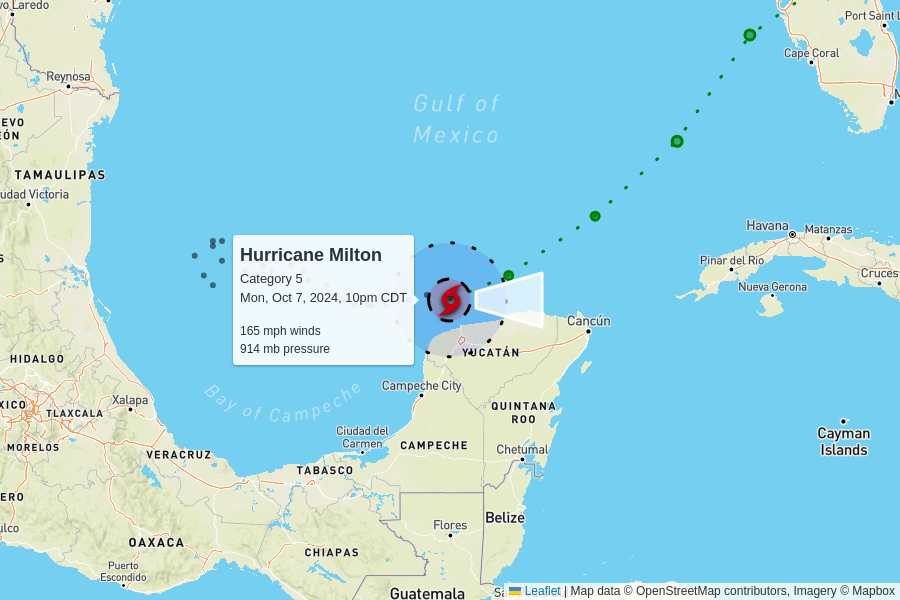
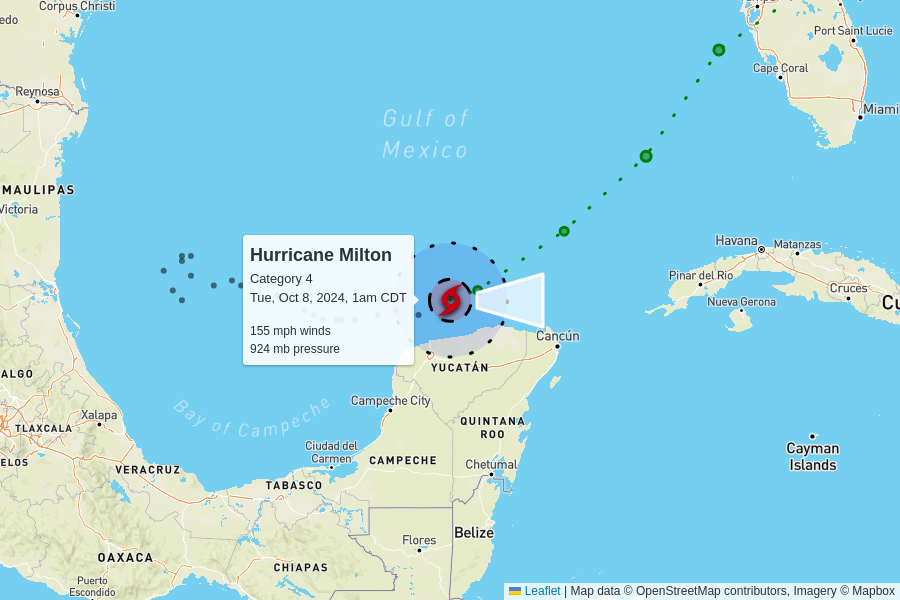
automatic update

diff --git a/docs/index.html b/docs/index.html
@@ -101,6 +101,50 @@
 
     <table>
       <tr>
+        <td colspan="6" class="storm category-4" >
+          <h2>
+            Hurricane Milton - Category 4
+            <p class="updated">last updated <span data-time>2024-10-08T06:00:00.000Z</span></p>
+          </h2>
+        </td>
+      </tr>
+      
+      <tr>
+        <th class="spacer"></th>
+        <th>wind speed</th>
+        <th>central pressure</th>
+        <th>movement</th>
+        <th>data (CSV)</th>
+        <th>National Hurricane Center</th>
+      </tr>
+      <tr>
+        <td class="spacer"></td>
+        <td>155 mph<br>-10 mph since last update</td>
+        <td>924 mb<br>+10 mb since last update</td>
+        <td>
+          9 mph to the east
+          <br/>
+          <span style="display: inline-block; font-size: 1.5em; transform: rotate(90deg);">↑</span>
+        </td>
+        <td><a href="https://raw.githubusercontent.com/mgwalker/atlantic-hurricanes/main/data/csv/AL142024.csv">AL142024.csv</a></td>
+        <td><a href="https://www.nhc.noaa.gov/archive/2024/MILTON.shtml?">NHC advisories</a></td>
+      </tr>
+      <tr id="storm_AL142024" >
+        <td class="spacer">
+        <td colspan="5">
+          <figure>
+            <img src="AL142024.png">
+            <figcaption>
+              Map data &copy; <a href="https://www.openstreetmap.org/copyright">OpenStreetMap</a> contributors,
+              Imagery &copy; <a href="https://www.mapbox.com/">Mapbox</a> |
+              <a href="https://www.mapbox.com/map-feedback/" target="_blank">Improve this map</a>
+            </figcaption>
+          </figure>
+        </td>
+      </tr>
+      
+
+      <tr>
         <td colspan="6" class="storm category-1" >
           <h2>
             Hurricane Leslie - Category 1
@@ -134,50 +178,6 @@
         <td colspan="5">
           <figure>
             <img src="AL132024.png">
-            <figcaption>
-              Map data &copy; <a href="https://www.openstreetmap.org/copyright">OpenStreetMap</a> contributors,
-              Imagery &copy; <a href="https://www.mapbox.com/">Mapbox</a> |
-              <a href="https://www.mapbox.com/map-feedback/" target="_blank">Improve this map</a>
-            </figcaption>
-          </figure>
-        </td>
-      </tr>
-      
-
-      <tr>
-        <td colspan="6" class="storm category-5" >
-          <h2>
-            Hurricane Milton - Category 5
-            <p class="updated">last updated <span data-time>2024-10-08T03:00:00.000Z</span></p>
-          </h2>
-        </td>
-      </tr>
-      
-      <tr>
-        <th class="spacer"></th>
-        <th>wind speed</th>
-        <th>central pressure</th>
-        <th>movement</th>
-        <th>data (CSV)</th>
-        <th>National Hurricane Center</th>
-      </tr>
-      <tr>
-        <td class="spacer"></td>
-        <td>165 mph<br>-15 mph since last update</td>
-        <td>914 mb<br>+17 mb since last update</td>
-        <td>
-          9 mph to the east
-          <br/>
-          <span style="display: inline-block; font-size: 1.5em; transform: rotate(90deg);">↑</span>
-        </td>
-        <td><a href="https://raw.githubusercontent.com/mgwalker/atlantic-hurricanes/main/data/csv/AL142024.csv">AL142024.csv</a></td>
-        <td><a href="https://www.nhc.noaa.gov/archive/2024/MILTON.shtml?">NHC advisories</a></td>
-      </tr>
-      <tr id="storm_AL142024" >
-        <td class="spacer">
-        <td colspan="5">
-          <figure>
-            <img src="AL142024.png">
             <figcaption>
               Map data &copy; <a href="https://www.openstreetmap.org/copyright">OpenStreetMap</a> contributors,
               Imagery &copy; <a href="https://www.mapbox.com/">Mapbox</a> |
